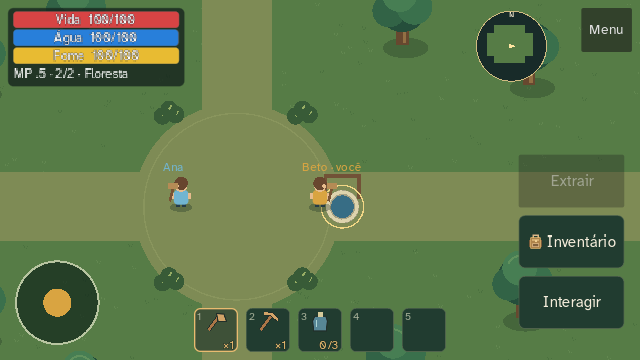
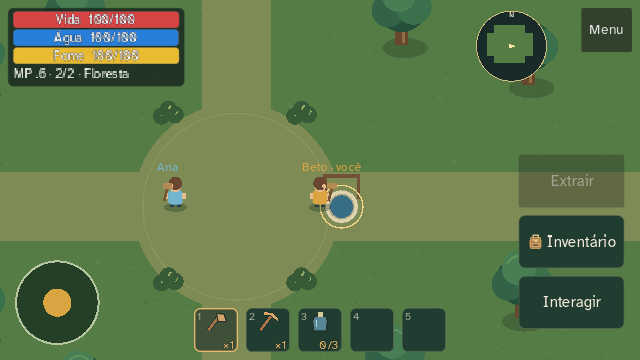
ops(multiplayer): record pilot .6 deployment and current-route readiness

diff --git a/docs/MULTIPLAYER_PILOTO_6.md b/docs/MULTIPLAYER_PILOTO_6.md
@@ -105,9 +105,44 @@ diagnóstico. `Status` retorna código 2 quando o piloto não está pronto.
 - 10 verificações externas do servidor de produção: HTTPS, protocolo/versão,
   raiz 404, WSS, recusa de anônimo e tokens forjados, mesmas duas contas,
   ausência de tokens/UIDs nos logs. Sem login positivo automatizado real.
+- 8 verificações do PCK real: identificação do commit, descoberta configurada,
+  contas e chat/sync preservados, ausência de bridge/servidor, isolamento e
+  abertura de cópias dos saves v5 e v8 com vitória preservada.
+- 21 verificações da publicação: manifesto .6, 17 assets por SHA256, HTML com
+  toda a fonte preservada mais inserção de 938 caracteres do provedor, rota
+  atual e health compatível. Mais 4 verificações em navegador, da origem real
+  publicada, de CORS da descoberta e WSS anônimo recusado nos dois formatos.
+  Essas quatro conferem transporte; não autenticam uma partida de produção.
 - Repetir Start preservou servidor `21580` e túnel `13600` depois de encerrada
   a shell solicitante. Não houve reinício adicional da sala nessa conferência.
 
 **Pendências físicas mantidas:** desempenho, drops, HUD e reconexão. Entrada
 com as duas contas reais na .6 também requer confirmação manual; o sucesso
 humano da .5 é histórico e não aprova automaticamente a .6.
+
+## Publicação conferida
+
+- Sites versão **6**, deploy `appgdep_6ada89321fc881918d0148ab4091899d`,
+  **succeeded**, mesma audiência privada.
+- Jogo `06b57e087cfe14127d8d7e6514ede95a8e1a3401`; fonte Sites
+  `4e0fa21161e5b6235d3c8cb0672d3a09085ab82d`.
[1 lines of base64/hex data omitted]
+- Rota inicial .6: `wss://finance-powered-midwest-footage.trycloudflare.com/room`.
+  Rotas seguintes são lidas do manifesto público pelo mesmo cliente .6.
+- Status final: host ativo, HTTP local, HTTPS, WSS, protocolo/versão e rota
+  conferidos; `ready_to_play=True`, `needs_republish=False`,
+  `needs_endpoint_publish=False`. Isso não é teste humano de controles.
+- Oficial reconferido em 0.9.0, commit `15ba9685`, PCK
[1 lines of base64/hex data omitted]
+  `main`, tag v0.9.0 e alterações locais do IDE preservados.
+
+Evidências: [diagnóstico](evidence/multiplayer-pilot-6-diagnosis.json),
+[descoberta emulada](evidence/multiplayer-pilot-6-discovery.json),
+[WSS público](evidence/multiplayer-pilot-6-wss.json),
+[pacote real](evidence/multiplayer-pilot-6-pack.json),
+[bytes publicados](evidence/multiplayer-pilot-6-published.json),
+[transporte no navegador](evidence/multiplayer-pilot-6-browser-transport.json),
+[deploy](evidence/multiplayer-pilot-6-deployment.json),
+[oficial preservado](evidence/multiplayer-pilot-6-official.json).
+Capturas de partida [PC](images/multiplayer-6-pc.png) e
+[mobile](images/multiplayer-6-mobile.png) são emuladas.
